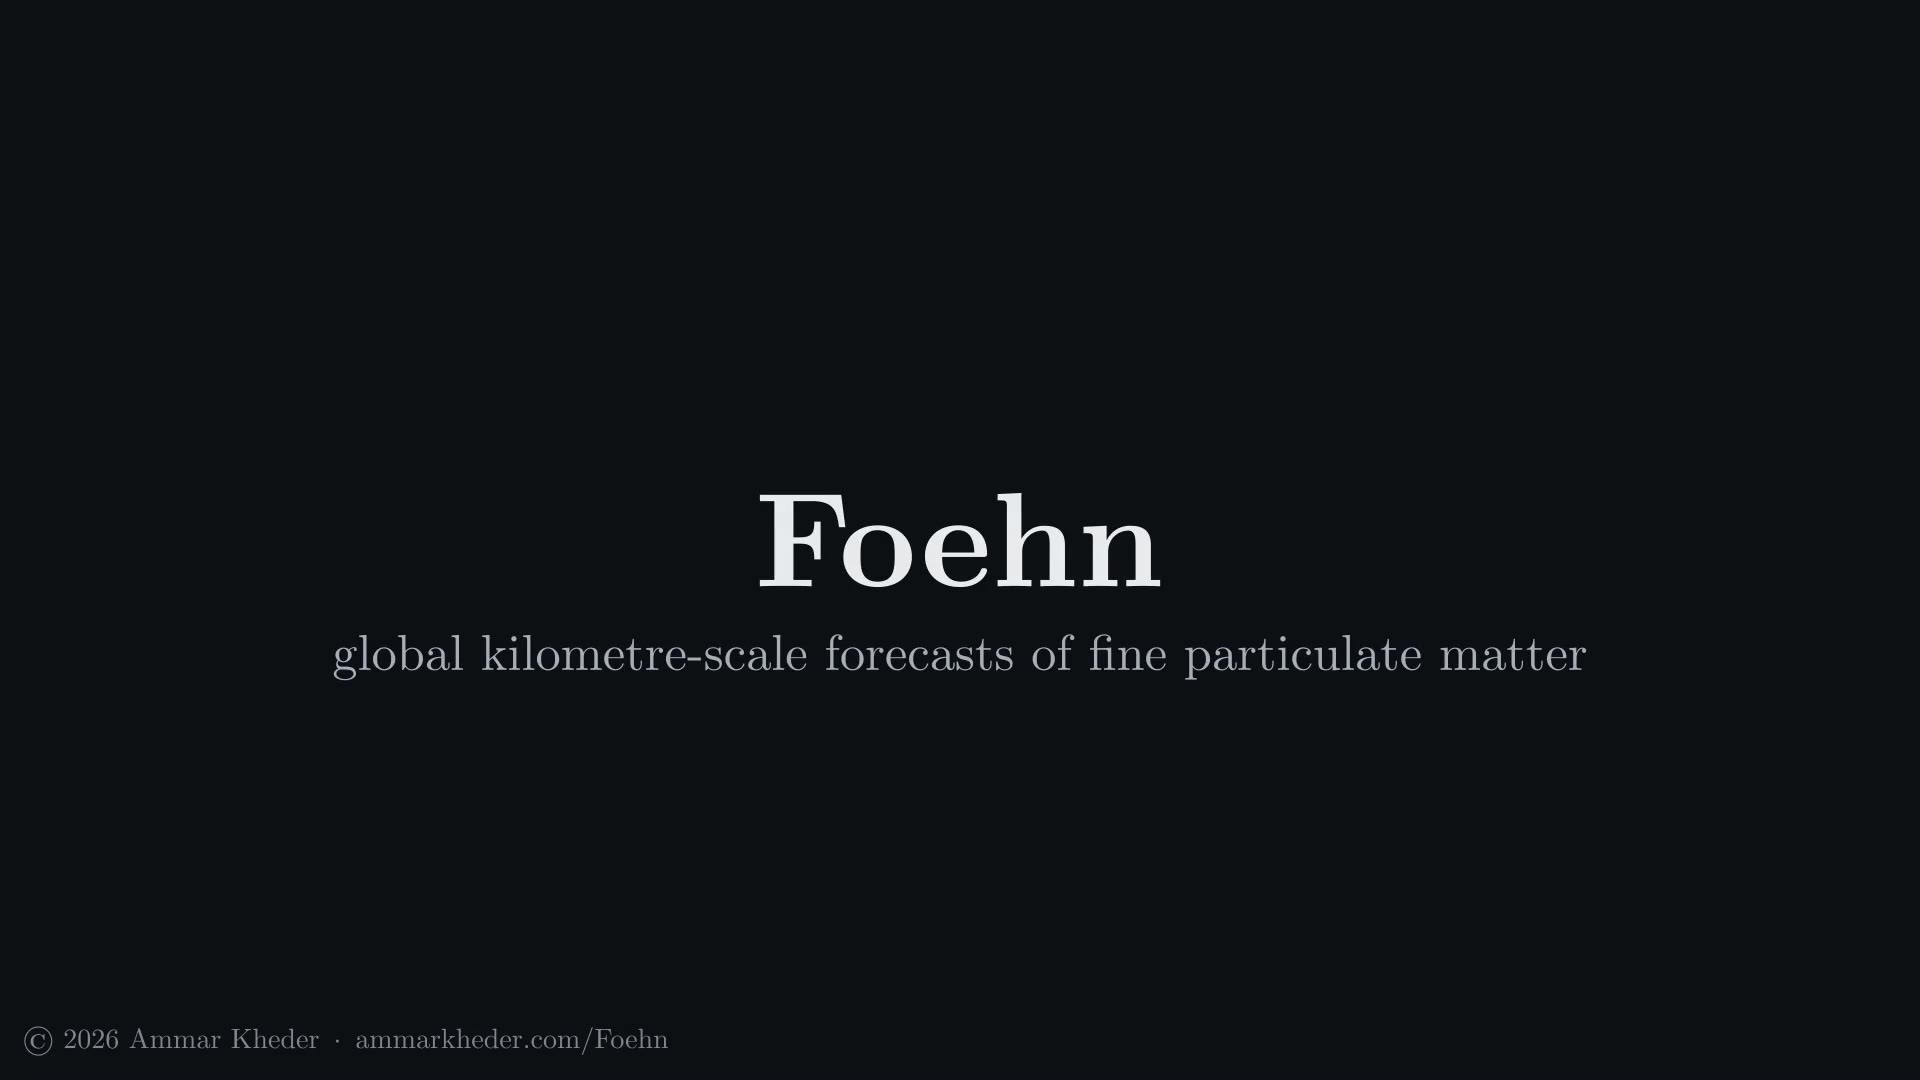
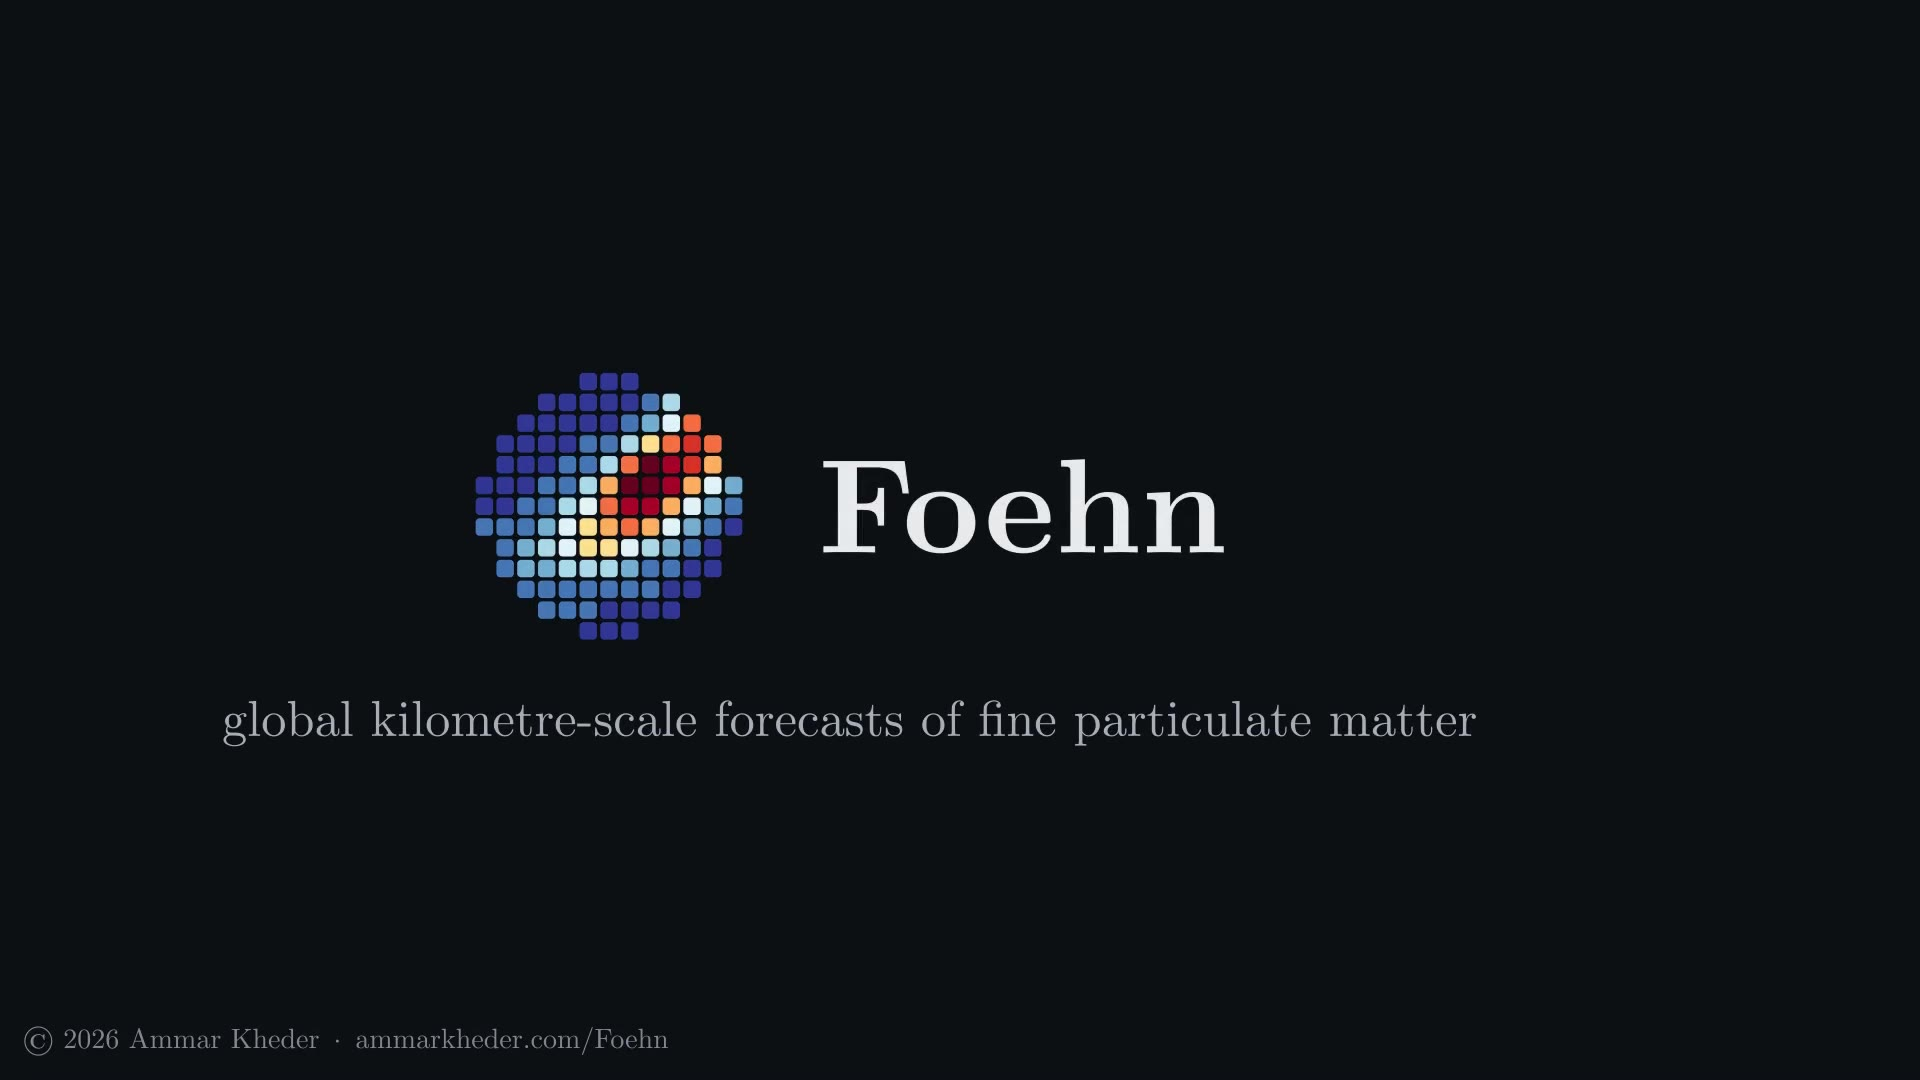
Site: film poster from the new opening

Changed region(s): [[0.125, 0.3361, 0.8125, 0.7028]]

diff --git a/docs/index.html b/docs/index.html
@@ -82,11 +82,11 @@
   </div>
   <div class="wrap hero-media" id="explained">
     <div class="ex-tabs" role="group" aria-label="Choose a version">
-      <button type="button" class="ex-tab on" data-src="figures/anim/foehn_film.mp4?v=19" data-poster="figures/anim/foehn_film_poster.jpg?v=6">The full story &middot; 6&nbsp;min</button>
+      <button type="button" class="ex-tab on" data-src="figures/anim/foehn_film.mp4?v=19" data-poster="figures/anim/foehn_film_poster.jpg?v=7">The full story &middot; 6&nbsp;min</button>
       <button type="button" class="ex-tab" data-src="figures/anim/foehn_explained.mp4?v=10" data-poster="figures/anim/foehn_explainer_poster.jpg?v=6">How it works &middot; 2&nbsp;min</button>
     </div>
     <figure class="explainer-feature">
-      <video id="explainer-video" controls playsinline preload="metadata" poster="figures/anim/foehn_film_poster.jpg?v=6" width="1920" height="1080"
+      <video id="explainer-video" controls playsinline preload="metadata" poster="figures/anim/foehn_film_poster.jpg?v=7" width="1920" height="1080"
              aria-label="Foehn explained: an animated, narrated film">
         <source src="figures/anim/foehn_film.mp4?v=19" type="video/mp4" />
       </video>
